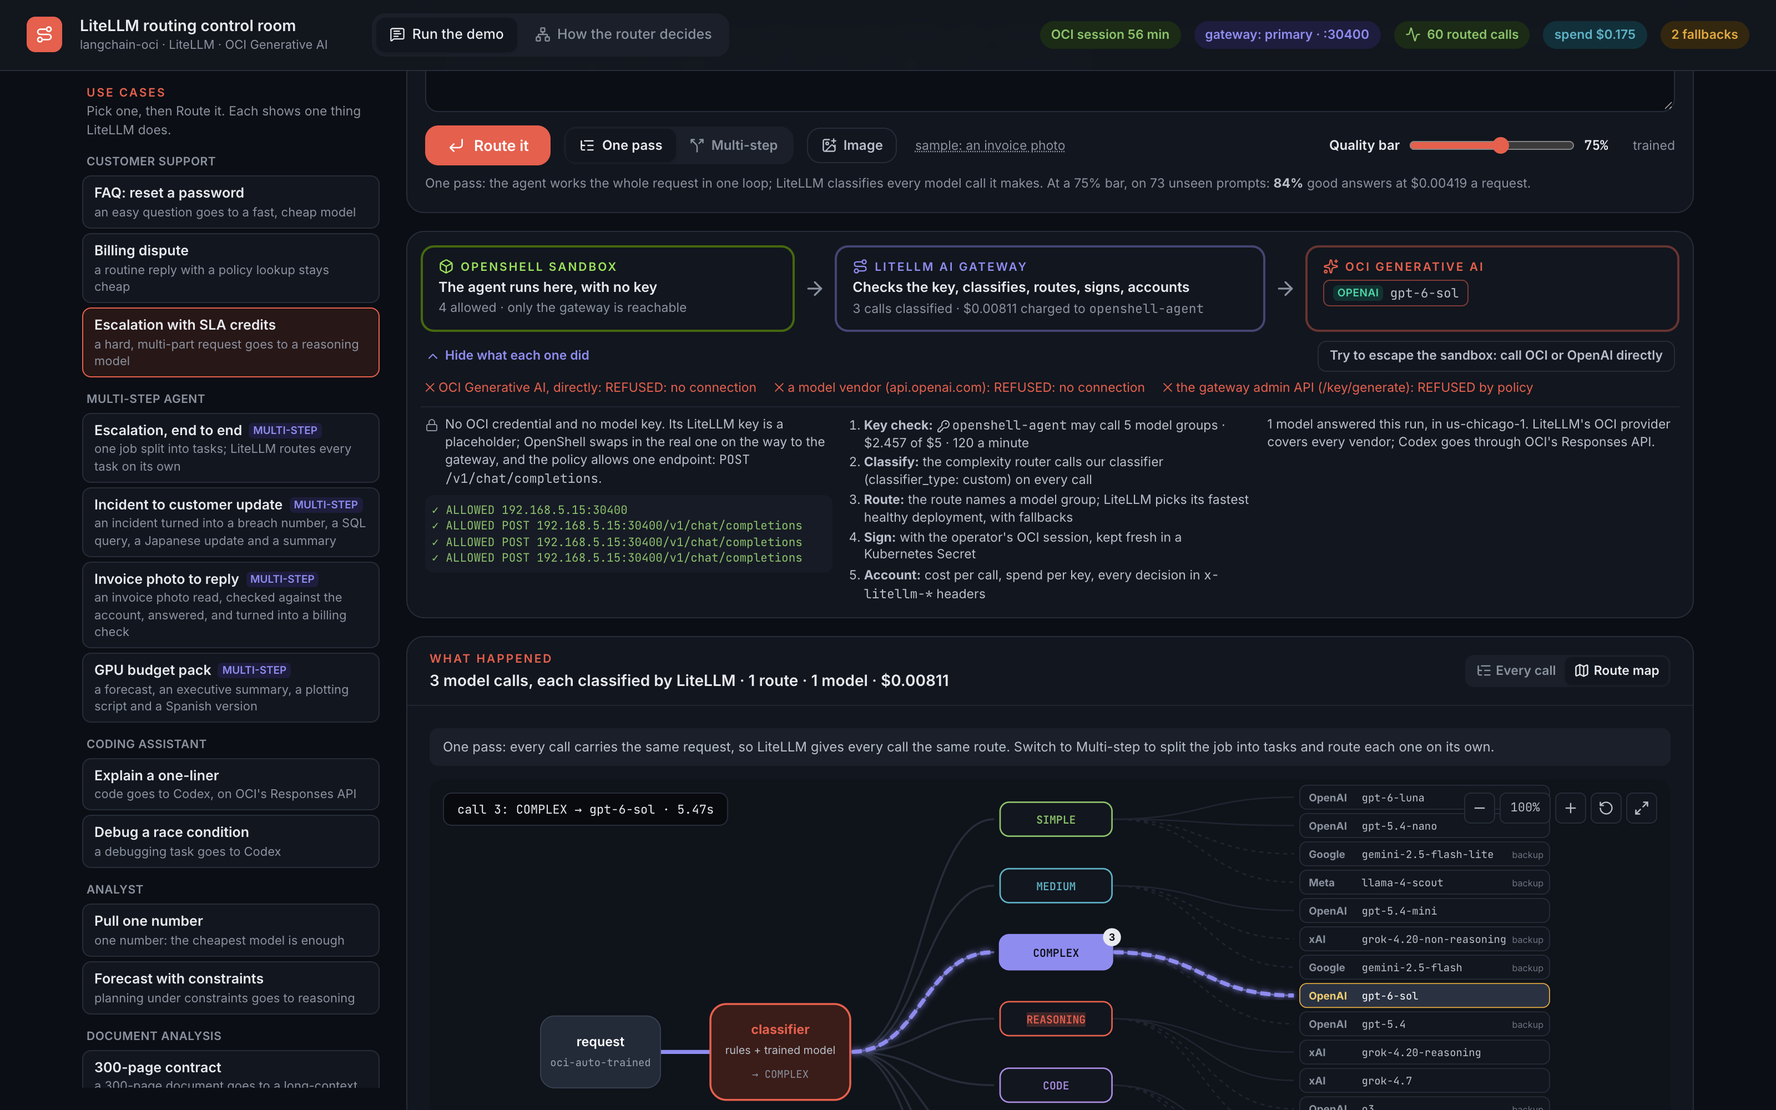
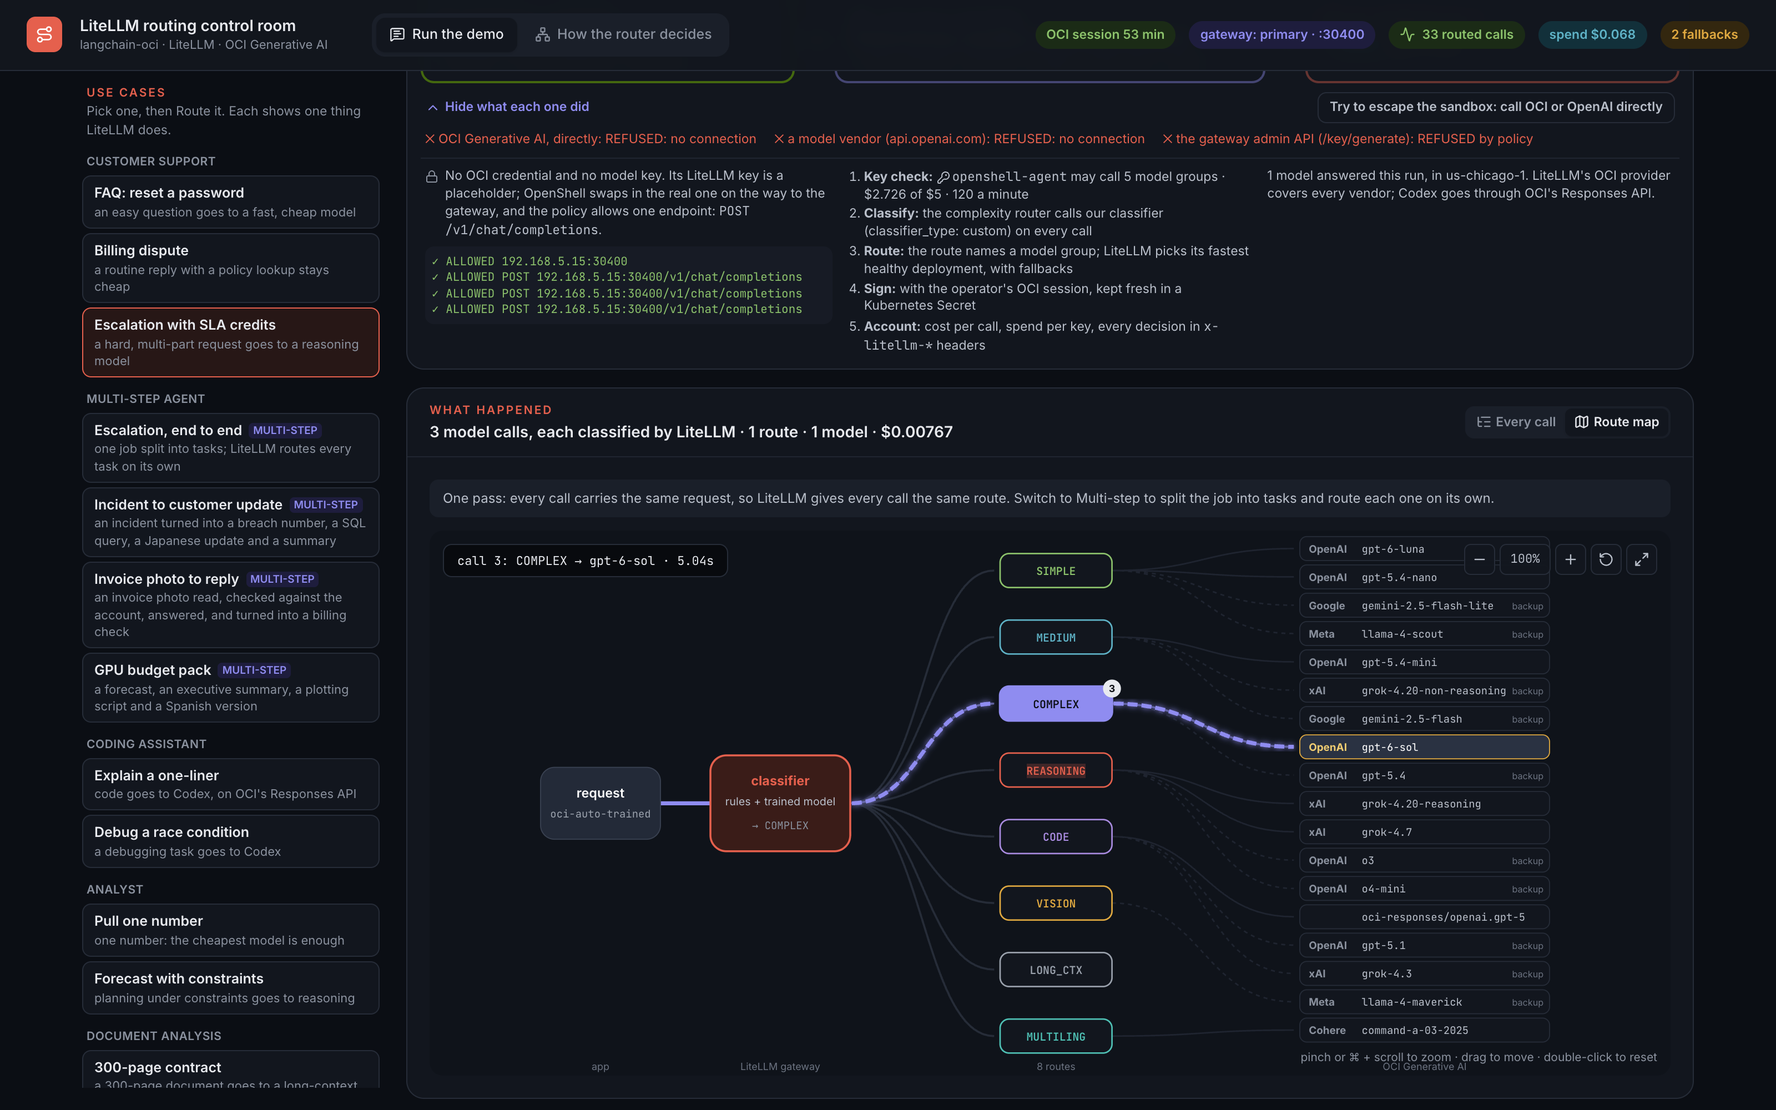
Deck: where the router is wrong, the agent trace, today's field notes
New slides: 'Where the router is wrong' (evidence/strong-vs-reasoning.json and the
relabel in evidence/relabel-gpt-6.1-sol.json) and 'The agent trace' (a dark screenshot
the UI e2e now takes). Label stability is computed from the labels, on the slide and
in the control room alike (66%; strong and reasoning are no longer counted as one).
Field notes add GPT-6.1-sol and tools, a model leaving a route, and the keep-alive
race. The use-case table names the two requests the router sends to strong.
Screenshots are the current dark control room.

diff --git a/web/src/components/Timeline.tsx b/web/src/components/Timeline.tsx
@@ -96,7 +96,7 @@ function Legend() {
   return (
     <div className="mb-3 grid grid-cols-3 gap-3 rounded-xl border border-line bg-deep/60 px-4 py-2.5 text-[11.5px] leading-snug">
       {item("bg-indigo", "LiteLLM", "reads each model call, decides its route and picks the model. Click a call for its ladder.")}
-      {item("bg-oracle", "The model", "answers, or asks the agent to run a tool. Reasoning models think first; OCI reports how long, not what.")}
+      {item("bg-oracle", "The model", "answers, or asks the agent to run a tool. Reasoning models think first; OCI reports how many tokens, not what they said.")}
       {item("bg-moss", "A tool", "the agent runs it and hands the result back to the model, in a new call that LiteLLM classifies again.")}
     </div>
   );

diff --git a/deck/build_deck.py b/deck/build_deck.py
@@ -238,6 +238,15 @@ def load(path: Path):
     return json.loads(path.read_text()) if path.exists() else None
 
 
+def label_stability() -> tuple[int, int]:
+    """Outcome-labelled prompts whose three label runs chose the same cheapest passing route, and how many were labelled."""
+    path = ROOT / "classifier" / "data" / "labels.jsonl"
+    if not path.exists():
+        return 0, 0
+    voted = [r for r in (json.loads(line) for line in path.read_text().splitlines()) if r.get("votes")]
+    return sum(1 for r in voted if len(set(r["votes"])) == 1), len(voted)
+
+
 def shot(slide, name, x, y, w, caption=None, max_h=None):
     """A screenshot; by default never lower than the footer, whatever its length."""
     if (SHOTS / name).exists():
@@ -253,6 +262,8 @@ def build(template: Path, out: Path) -> None:
     meta = load(ROOT / "classifier" / "model" / "meta.json")
     ev = load(EVIDENCE / "classifier-eval.json")
     pay = {p["policy"]: p for p in ev["policies"]} if ev else None   # evidence/classifier-eval.json, by policy
+    stable, labelled = label_stability()
+    stable_pct = round(100 * stable / labelled) if labelled else 0
     appendix = []   # built in story order, moved behind the conclusion: the classifier in depth, for questions
 
     # 1 · cover
@@ -280,10 +291,10 @@ def build(template: Path, out: Path) -> None:
     agenda = [("The blog", "LiteLLM natively supports OCI Generative AI", "3–4"),
               ("LiteLLM", "the architecture, what LiteLLM gives you, isolation and why this order, one request", "5–9"),
               ("Why route", "the portfolio, the toolbox, the use cases, the criteria", "10–13"),
-              ("The router", "LiteLLM's plugin point, and the classifier we plugged in", "14–18"),
-              ("Live demo", "the demo screen, then back to the slides", "19–24"),
-              ("Codex and Kubernetes", "skills as the harness; Kubernetes; field notes; what we would upstream", "25–29"),
-              ("Appendix", "the classifier in depth: fine-tuning, fresh prompts and a second judge", "31–33")]
+              ("The router", "LiteLLM's plugin point, the classifier we plugged in, and where it is wrong", "14–19"),
+              ("Live demo", "the demo screen and the agent trace, then back to the slides", "20–26"),
+              ("Codex and Kubernetes", "skills as the harness; Kubernetes; field notes; what we would upstream", "27–31"),
+              ("Appendix", "the classifier in depth: fine-tuning, fresh prompts and a second judge", "33–35")]
     for i, (t, sub, pages) in enumerate(agenda):
         y = 1.85 + i * 0.7
         rect(s, 0.72, y, 11.9, 0.6, SAND if i % 2 == 0 else WHITE, line=CARD_LINE)
@@ -345,7 +356,7 @@ def build(template: Path, out: Path) -> None:
             ": {:.0%} good answers at {:.0%} less than always-reasoning".format(pay["trained"]["quality"], 1 - pay["trained"]["cost_usd"] / pay["always REASONING"]["cost_usd"]) if pay else "")],
         ["Keys, budgets, limits", "virtual keys with allowed models, budget, rate limit and spend (Postgres)", "the OpenShell agent's key: 5 model groups, $5 per 30 days, 120 requests a minute; anything else is a 403"],
         ["Reliability", "fallbacks, retries, timeouts, cooldowns", "a failing deployment falls back; a classifier outage routes to fallback_tier; {0} of {1} use cases answered".format(*sandbox_run())],
-        ["Observability", "cost and route on every response, spend per key, logging callbacks", "x-litellm-* headers on every call; one ROUTE line per request in the console"],
+        ["Observability", "cost and route on every response, spend per key, logging callbacks", "x-litellm-* headers on every call; one ROUTE line per request in the console; the agent trace reads them call by call"],
         ["Extensibility", "CustomLogger hooks, CustomLLM providers, classifier plugins", "OCI signing hook, the decision header, Codex through OCI's Responses API"],
         ["Credentials in one place", "provider auth lives in the gateway; applications hold a virtual key", "the sandbox holds a placeholder; only LiteLLM signs to OCI"],
     ], col_w=[2.5, 4.3, 5.1], size=11)
@@ -454,6 +465,8 @@ def build(template: Path, out: Path) -> None:
         ["Premium customer", "the same request, a premium contract", "tag: premium", "GPT-5.2"],
         ["Resilience", "a model is down", "fallback", "the next group, no app change"],
     ], col_w=[2.3, 3.8, 2.7, 3.1], size=11.5)
+    text(s, 0.72, 6.05, 11.9, 0.4, "The route each request needs, measured. Today's router sends the SLA escalation and the forecast to the strong route instead: see \u201cWhere the router is wrong\u201d.",
+         size=10.5, color=MUTED)
     repo(s, "app/scenarios.py (each use case, with the route it should take)")
     notes(s, "Every row is a button in the control room. Northwind Cloud is a fictional company; no real customer data.")
 
@@ -505,7 +518,7 @@ def build(template: Path, out: Path) -> None:
 
     # 13 · from labels to a ladder
     s = prs.slides.add_slide(blank)
-    pct = 72
+    pct = stable_pct   # from classifier/data/labels.jsonl: the three label runs agree
     header(s, "Predict each route's chance of a good answer, not one label", "Why a ladder")
     lad = (meta or {}).get("ladder")
     card(s, 0.72, 1.85, 5.6, 2.15, "One label is a coin flip",
@@ -560,6 +573,28 @@ def build(template: Path, out: Path) -> None:
               f"{round((pol['trained']['quality'] - pol['llm']['quality']) * 100)} more than the LLM classifier at {round((1 - pol['trained']['cost_usd'] / pol['llm']['cost_usd']) * 100)}% less, "
               f"and stays {round((pol['always REASONING']['quality'] - pol['trained']['quality']) * 100)} points under always-reasoning at {round((1 - pol['trained']['cost_usd'] / pol['always REASONING']['cost_usd']) * 100)}% less.")
 
+    # 14a · where the router is wrong: one request at a time, measured
+    sv, rl = load(EVIDENCE / "strong-vs-reasoning.json"), load(EVIDENCE / "relabel-gpt-6.1-sol.json")
+    if sv:
+        s = prs.slides.add_slide(blank)
+        header(s, "Routing is a prediction: measure it, one request at a time", "Where the router is wrong")
+        sm = sv["summary"]
+        what = {"support-escalation": "SLA escalation: three outages, the credit, a remediation plan",
+                "analyst-forecast": "GPU budget: three growth scenarios under a quarterly cap"}
+        frac = lambda k: f"{sm[k]['passed']} of {sm[k]['of']}"  # noqa: E731
+        table(s, 0.72, 1.75, 11.9, [["Request (a demo use case)", "The router sends it to", "Strong passed", "Reasoning passed"]] + [
+            [what[p], "strong · GPT-6-sol", frac(f"{p} oci-strong"), frac(f"{p} oci-reasoning")] for p in what], col_w=[5.6, 2.5, 1.9, 1.9], size=12.5)
+        bullets(s, 0.72, 3.3, 11.9, 3.3, [
+            ("What failed.", "Correctness: the strong model got the credit or the scenario arithmetic wrong. Same judge and pass rule as the labels, each answer graded on its own."),
+            ("What we checked.", "GPT-6.1-sol had answered part of the strong route's labels and then left the route. {0} label runs were done again; {1} of {2} labels changed, and these two decisions did not. "
+             "The ladder's estimate comes from similar labelled requests, and they say strong.".format(rl["runs_labelled_again"], rl["label_changed"], rl["prompts"]) if rl else ""),
+            ("What LiteLLM gives you meanwhile.", "An app that knows a request is hard asks for a model group by name; the decision comes back in every response header, so each miss is visible and can be counted."),
+            ("What fixes it.", "More labelled requests of this kind, constrained arithmetic, and the outcomes of live traffic fed back into the labels."),
+        ], size=12.5)
+        repo(s, "classifier/strong_vs_reasoning.py · evidence/strong-vs-reasoning.json · classifier/label.py --redo · evidence/relabel-gpt-6.1-sol.json")
+        notes(s, f"{sv['n']} answers per route per prompt, graded by {sv['judge']}, pass = {sv['pass']}. The measurement puts the policy text in the prompt and gives no tools; "
+                 "the live agent has a calculate tool and can do better. In the demo this is an optional step: the router's known miss.")
+
     # 14b · does it hold up: fresh prompts, a second judge
     rb = load(EVIDENCE / "robustness.json")
     if rb:
@@ -594,7 +629,7 @@ def build(template: Path, out: Path) -> None:
     rect(s, 0, 0, 13.333, 7.5, TEAL)
     text(s, 0.72, 2.2, 11.9, 0.4, "LIVE DEMO · SWITCH TO THE BROWSER", size=13, color=YELLOW, bold=True, spacing=220)
     text(s, 0.72, 2.7, 11.9, 1.0, "The routing control room", size=40, color=WHITE, bold=True)
-    beats = ["Type a request: the agent runs in an OpenShell sandbox; LiteLLM checks its key, classifies, routes and signs",
+    beats = ["Route a request: the agent runs in OpenShell; the trace shows each LiteLLM decision, each tool and its result",
              "Business rules in config: a premium tag takes another lane; the agent's key carries its models, budget and spend",
              "Use cases: support, code (to Codex), a forecast, Japanese, an invoice photo; each call on the route map",
              "A multi-step agent: a planner splits one job into tasks, and LiteLLM routes each task to its own model",
@@ -611,6 +646,7 @@ def build(template: Path, out: Path) -> None:
     table(s, 0.72, 1.85, 11.9, [
         ["In the demo", "What it shows", "The LiteLLM part"],
         ["a request routed and explained", "each route's chance of a good answer against the bar", "the complexity router calling our classifier"],
+        ["the agent trace", "every call's decision, every tool's arguments and result", "LiteLLM's response headers, call by call"],
         ["the agent in OpenShell", "no key in the sandbox; one allowed endpoint", "a virtual key with models, budget and rate limit"],
         ["a premium tag on the same request", "another lane for another contract", "tag routing, in config"],
         ["the quality bar moving the route", "one dial between spend and answer quality", "a per-request setting the router passes through"],
@@ -629,7 +665,7 @@ def build(template: Path, out: Path) -> None:
         ("Use cases, in the order of the talk.", "Each says the one thing it shows: a cheap model, reasoning, Codex, a rule, a fallback."),
         ("The request.", "One pass or multi-step, an image, and the quality bar."),
         ("Sandbox → LiteLLM → OCI.", "Where the request went: no key in the sandbox; key check, classify, route, sign and account in LiteLLM; the models that answered. 'Try to escape' shows the refusals."),
-        ("What happened.", "Every model call with the decision LiteLLM made for it; click a call for its ladder. Then the answer, and why the first call got its route."),
+        ("What happened.", "The agent trace: every model call with LiteLLM's decision, every tool with its arguments and result, each task's result; click a call for its ladder. Then the answer, and why the first call got its route."),
     ], size=12.5)
     repo(s, "ui/sandbox.py · gateway/route_headers.py · classifier/explain.py · web/src/components/Ask.tsx")
     notes(s, "Nothing on this screen is written by a model after the fact: every sentence is built from the router's own numbers and the labels on file.")
@@ -646,6 +682,21 @@ def build(template: Path, out: Path) -> None:
     repo(s, "app/agent.py · ui/server.py · web/src/components/Ask.tsx · web/src/components/RouteMap.tsx")
     notes(s, "The UI is a thin client over the gateway's own headers.")
 
+    # 17a · the agent trace
+    s = prs.slides.add_slide(blank)
+    header(s, "Every model call, every tool and its result, in order", "The agent trace")
+    shot(s, "09-agent-trace.png", 0.6, 1.5, 6.6, max_h=5.45)
+    bullets(s, 7.5, 1.65, 5.2, 5.1, [
+        ("LiteLLM's decision, per call.", "The route and why, the model it picked, which check decided and in how many milliseconds, tokens in and out, cost, fallbacks."),
+        ("What the model did.", "Asked the agent to run a tool, or answered. Long answers fold; a task's last answer is its result, passed to the next task."),
+        ("Every tool.", "Its arguments and what it returned: the policy text, the account, the arithmetic."),
+        ("Reasoning models.", "A call shows how many reasoning tokens it spent. OCI returns the count, not the text, so the screen shows no more than that."),
+        ("Live.", "While the agent works, one line says what is happening: classifying, running a tool, reading its result."),
+    ], size=12)
+    repo(s, "web/src/components/Timeline.tsx · app/agent.py (RouteRecorder) · gateway/route_headers.py")
+    notes(s, "Everything on this screen comes from LiteLLM's response headers and the agent's own callbacks; no model writes any of it after the fact. "
+             "Point at a tool's result, then at the next call: the model read it, and LiteLLM classified that call again.")
+
     # 17b · multi-step agent
     s = prs.slides.add_slide(blank)
     header(s, "One job, split into tasks; each task routed on its own", "A multi-step agent: a model per task")
@@ -656,7 +707,7 @@ def build(template: Path, out: Path) -> None:
         ("3 · Every call inside a task is classified too.", "The screen groups the calls by task, each with its decision."),
         ("Four jobs.", "Escalation, incident update, invoice photo, GPU budget pack. The invoice job's photo goes to the task that reads it, and from there to VISION; four runs each gave its facts right 13 times in 16; every miss was arithmetic on the balanced route."),
         ("What it found.", "A coding task in billing words went to balanced: no training example was worded that way. With 64 such requests and 64 counter-examples: 100% to Codex, 3% false alarms."),
-        ("What it costs.", "The misses are a route's weakest member: LiteLLM's latency routing usually picks Grok 4.20 non-reasoning in the balanced route, right 3 in 8 on the overrun task alone; GPT-5.4-mini, same route, 8 in 8. So it moved to the route's backup, and the router was relabelled."),
+        ("What it costs.", "The misses were a route's weakest member: LiteLLM's latency routing usually picked Grok 4.20 non-reasoning in the balanced route, right 3 in 8 on the overrun task alone; GPT-5.4-mini, same route, 8 in 8. Grok moved to the route's backup and the router was relabelled. An arithmetic task can still land on strong where reasoning does better."),
     ], size=11.5)
     notes(s, "Runs differ a little because the planner words tasks differently; "
              "every run in testing sent the coding task to Codex after the fix. Earlier results travel in the system prompt, which the router does not read, "
@@ -703,19 +754,19 @@ def build(template: Path, out: Path) -> None:
     header(s, "What cost real time", "Field notes")
     table(s, 0.72, 1.85, 11.9, [
         ["Where", "What we found"],
-        ["Complexity router · Gemini", "It sets max_tokens from the model map (65,536); OCI's Gemini accepts < 65,536. Every SIMPLE request fell back silently. Declare max_output_tokens."],
-        ["Complexity router · Llama 4", "The map says 8,192 output tokens; OCI allows 4,096. Same failure, same fix."],
+        ["Complexity router · Gemini, Llama 4", "It sets max_tokens from the model map: 65,536 for Gemini (OCI accepts less), 8,192 for Llama 4 (OCI allows 4,096). Every request fell back silently. Declare max_output_tokens."],
         ["Cohere vision", "LiteLLM sends cohere.* in Cohere format; OCI rejects it for command-a-vision. Route images to Gemini or Llama 4."],
-        ["Model catalog", "Listed is not served everywhere: Grok 4 and Grok Code returned 404 on demand; Codex answers only on the Responses API. Smoke-test first."],
+        ["Model catalog", "Listed is not served everywhere: Grok 4 and Grok Code returned 404 on demand. Codex answers only on OCI's Responses API: a small LiteLLM custom provider translates chat requests to it."],
         ["LLM classifier", "Its default timeout is 3 s; GPT-5 nano took longer, so it silently fell back to the heuristic. Use the fastest model (Flash-Lite) and a longer timeout."],
-        ["GPT-6 and tools", "OCI serves GPT-6 with reasoning on and refuses function tools; reasoning_effort none, sent only with tools, fixes it."],
-        ["Codex", "OCI serves GPT-5.3-codex only on its Responses API. A small LiteLLM custom provider translates chat requests to it."],
+        ["GPT-6 and tools", "OCI serves GPT-6 with reasoning on and refuses function tools; reasoning_effort none, sent only with tools, fixes it. GPT-6.1-sol refuses tools on chat completions at any effort, so it left the strong route."],
         ["Agent requests", "The agent's system prompt and tool turns drowned the request: every prompt looked alike, and Spanish read as English. Classify the user turns only."],
-        ["Labels", "Only 63% of prompts were label-stable across three runs (72% with the newer models). Predict each route's pass probability, not one label."],
+        ["Labels", f"Only 63% of prompts were label-stable across three runs ({stable_pct}% with today's models). Predict each route's pass probability, not one label."],
+        ["A model leaves a route", "Its answers stay in the labels: 22% of the strong route's label runs were GPT-6.1-sol's. label.py --redo runs every one of them again with the current models."],
         ["OKE signing", "Instance-principal signing failed after ~20 minutes: LiteLLM's do_request_sign() skips the SDK's token refresh. Refresh in the pre-call hook."],
         ["OKE on a corporate network", "NAT sent port 6443 out of a different address than web traffic; the API allowlist must use the address seen on 6443."],
-    ], col_w=[3.0, 8.9], size=10)
-    notes(s, "The first two are worth an upstream fix: OCI-specific max_output_tokens in the model map.")
+        ["Keep-alive", "The control room's client and LiteLLM's server both keep idle connections 5 s; a request on a just-closed one failed at once and marked a healthy gateway down. Expire idle connections at 2 s; retry a stale one once."],
+    ], col_w=[3.0, 8.9], size=9.5)
+    notes(s, "The first is worth an upstream fix: OCI-specific max_output_tokens in the model map.")
 
     # 22 · upstream
     s = prs.slides.add_slide(blank)
@@ -740,7 +791,7 @@ def build(template: Path, out: Path) -> None:
     s = prs.slides.add_slide(blank)
     header(s, "From a laptop to an OCI GPU", "What is next")
     steps(s, 0.72, 1.95, 11.9, 2.8, [
-        ("More data", "Thousands of prompts from real traffic logs (redacted), labelled by the same outcome contract.", TEAL),
+        ("More data", "Thousands of prompts from real traffic logs (redacted), labelled by the same outcome contract; first where the router is wrong: constrained arithmetic.", TEAL),
         ("Bigger model", "Fine-tune the encoder (+8 points in an earlier test, in 47 s) or a small LLM on an OCI GPU, with the same scripts.", INDIGO),
         ("Serve it", "As an OCI Data Science model deployment or a vLLM endpoint; plugged in with custom or oss_classifier.", RED),
         ("Close the loop", "Log every decision and its outcome; retrain on what the gateway learns.", GREEN),

diff --git a/ui/server.py b/ui/server.py
@@ -381,7 +381,7 @@ def classifier() -> dict:
     if labels.exists():
         rows = [json.loads(line) for line in labels.read_text().splitlines()]
         voted = [r for r in rows if r.get("votes")]
-        same = sum(1 for r in voted if len({{"COMPLEX": "REASONING"}.get(v, v) for v in r["votes"]}) == 1)
+        same = sum(1 for r in voted if len(set(r["votes"])) == 1)   # the three runs chose the same cheapest passing route
         out["labels"] = {"outcome_prompts": len(voted), "runs": 3, "unanimous": same,
                          "with_reasoning": sum(1 for r in rows if r.get("reasoning")),
                          "families": len({r["family"] for r in rows})}

diff --git a/docs/DEMO.md b/docs/DEMO.md
@@ -16,7 +16,7 @@ uv run python scripts/record_runs.py      # a recorded run of every use case, fo
    `oci session authenticate --profile-name <profile> --region us-ashburn-1`, then `scripts/local/push-session.sh`.
 2. On the venue's network: `scripts/demo-up.sh` → `PREFLIGHT OK`.
 3. Open http://127.0.0.1:8780 in Chrome, full screen. Run "FAQ: reset a password" once to warm everything up.
-4. Have the deck open on slide 19 (the demo divider).
+4. Have the deck open on slide 20 (the demo divider).
 
 ## The click path (about 8 minutes)
 
